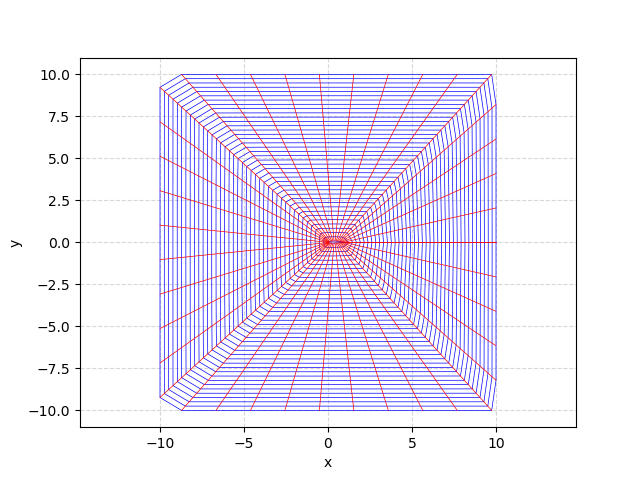
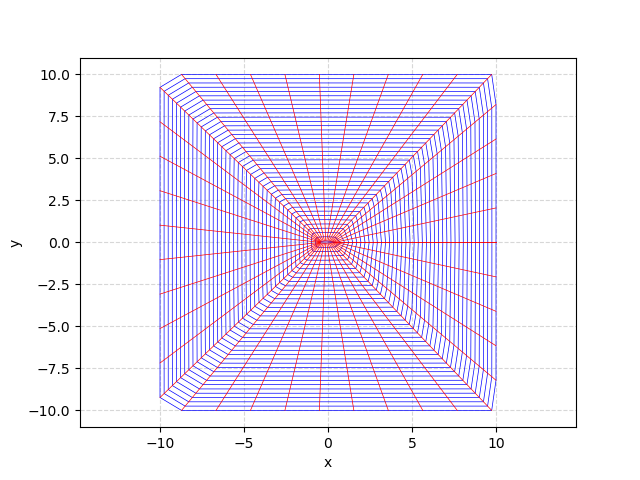
Centered the airfoil for TFI and Elliptic

Changed region(s): [[0.25, 0.1562, 0.7812, 0.8438], [0.375, 0.8125, 0.4062, 0.8438]]

diff --git a/Bonus_Assignment/main.py b/Bonus_Assignment/main.py
@@ -12,12 +12,11 @@ filename = "NACA63412 coordinates.csv"  # Use the new CSV format
 x_afl_pts, y_afl_pts = load_airfoil_data(filename)
 
 # Perform parametric cubic spline interpolation
-#x_afl_pts = x_afl_pts-0.5
-x_airfoil, y_airfoil = parametric_interpolation(x_afl_pts, y_afl_pts)
+x_airfoil, y_airfoil = parametric_interpolation(x_afl_pts , y_afl_pts)
 plot_airfoil(x_afl_pts, y_afl_pts, x_airfoil, y_airfoil)
 
 # Generate the grid
-x, y, ξ, η = grid_generation(num_xi, num_eta, x_airfoil, y_airfoil)
+x, y, ξ, η = grid_generation(num_xi, num_eta, x_airfoil - 0.5 , y_airfoil) # Offset the airfoil to center it in the grid
 plot_grid(x, y, "grid_tfi.png")
 
 x, y = GS_iteration(x, y, ξ, η, max_iter=50000, tolerance=1e-6)
